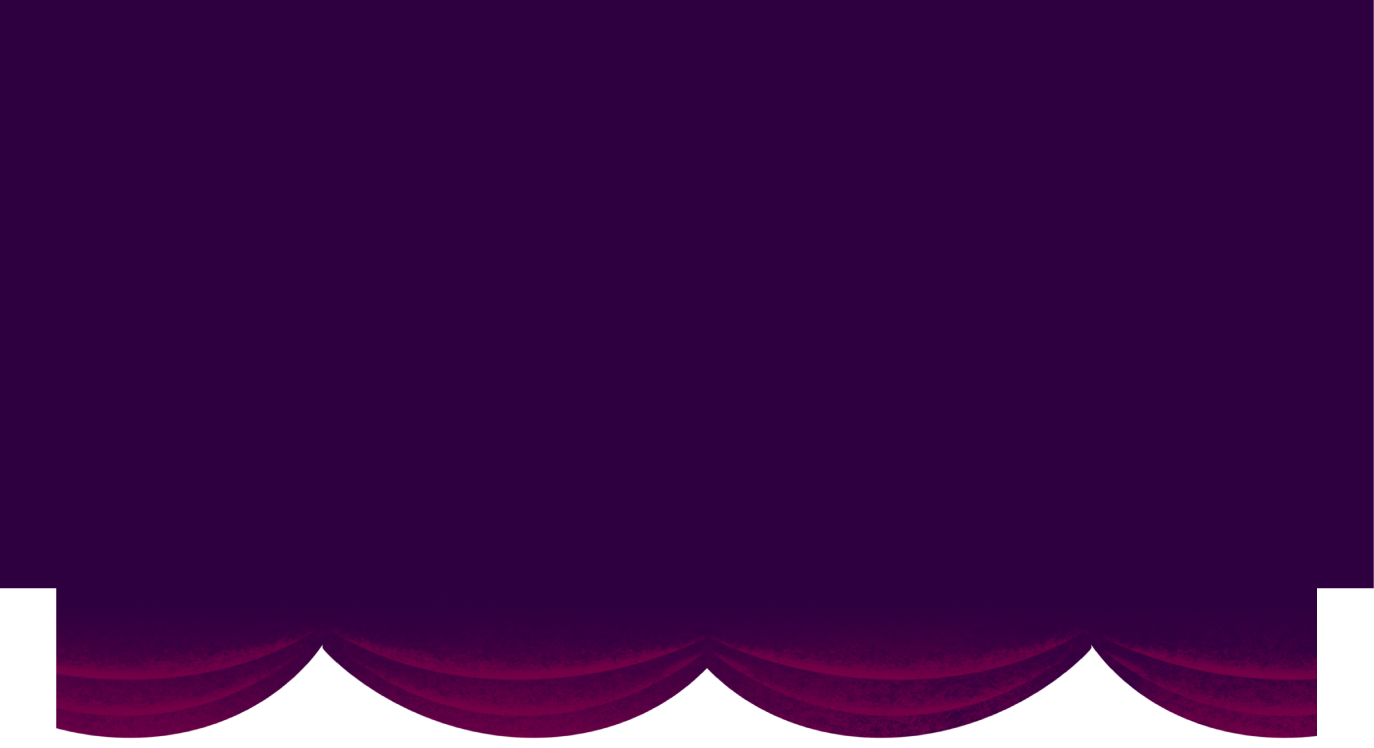
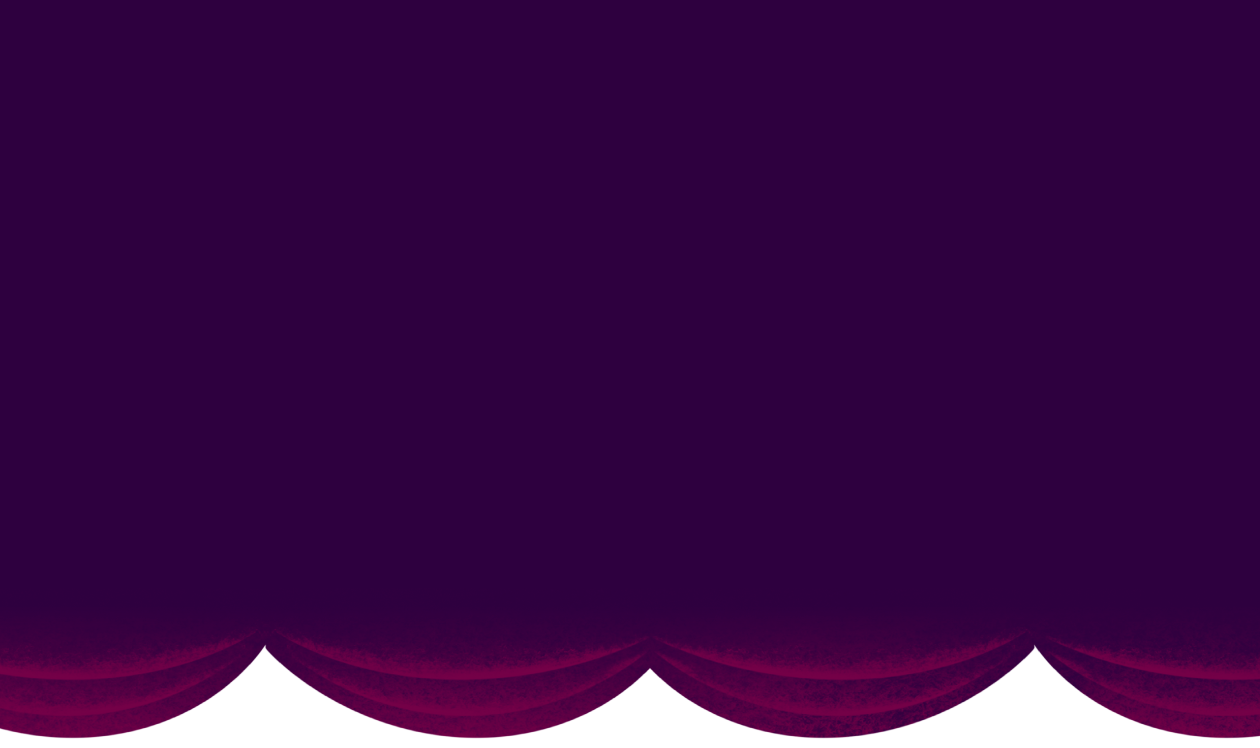
home ready

diff --git a/src/components/Home/styles.js b/src/components/Home/styles.js
@@ -1,12 +1,14 @@
 import pattern from '../../assets/pattern-somos.svg';
-import * as CS from '../colorSystem/colorSystem';
+import * as CS from '../../styles/colorSystem/colorSystem';
 
-
-export const homeStyles = {
+const homeStyles = {
     back:{
         backgroundColor:CS.darkBlue,
         width: '100%',
-        height:'100vh'
+        height:'100vh',
+        '@media (max-width: 700px)':{
+            height:'500px',
+        }
     },
     pattern:{
         backgroundSize:300,
@@ -16,6 +18,9 @@ export const homeStyles = {
         height:'100vh',
         position:'relative',
         overflow:'hidden',
+        '@media (max-width: 700px)':{
+            height:'500px',
+        }
 
     },
     '@keyframes showBegins': {
@@ -29,10 +34,17 @@ export const homeStyles = {
         position:'absolute',
         overflow:'hidden',
         top:-700,
-        animation:'$showBegins 2.5s' 
+        animation:'$showBegins 2.5s',
+        left: 0,
+        right: 0,
+        margin: 'auto',
     },
     floorImg:{
         width:'100%',
+        '@media (max-width: 700px)': {
+            height: '250px',
+            objectFit: 'cover',
+        }
     },
     floor:{
         position:'absolute',
@@ -45,14 +57,24 @@ export const homeStyles = {
         '100%': { transform: 'rotate(-10deg)' },
     },
     boyImg:{
-        height:'300px',
+        height:'350px',
+        '@media (max-width: 700px)':{
+            height:'220px',
+        }
     },
     boy:{
         position:'absolute',
         overflow:'hidden',
-        left: '20%',
         bottom:-10,
-        animation:'$spinsBoy 1.5s infinite'
+        animation:'$spinsBoy 1.5s infinite',
+        right: '51%',
+        '@media (max-width: 700px)': {
+            right: '45%'
+        },
+        '@media (max-width: 400px)':{
+            bottom: 20,
+            right: '42%'
+        },
     },
     '@keyframes spinsGirl': {
         '0%': { transform: 'rotate(10deg)' },
@@ -60,14 +82,24 @@ export const homeStyles = {
         '100%': { transform: 'rotate(10deg)' },
     },
     girlImg:{
-        height:'300px',
+        height:'350px',
+        '@media (max-width: 700px)':{
+            height:'220px',
+        }
     },
     girl:{
         position:'absolute',
         overflow:'hidden',
-        left: '55%',
         bottom:-10,
-        animation:'$spinsGirl 1.5s infinite'
+        animation:'$spinsGirl 1.5s infinite',
+        left: '51%',
+        '@media (max-width: 700px)': {
+            left: '45%'
+        },
+        '@media (max-width: 400px)':{
+            bottom: 20,
+            left: '42%'
+        }
     },
     leftImg:{
         height: '100vh',
@@ -76,7 +108,8 @@ export const homeStyles = {
         position:'absolute',
         top:0,
         height: '100vh',
-        overflow:'hidden'
+        overflow:'hidden',
+        '@media (max-width:700px)': {display: 'none'}
     },
     '@keyframes logoIntro': {
         '0%': { 
@@ -92,13 +125,18 @@ export const homeStyles = {
         width:'20%'
     },
     logoImg:{
-        
         animation:'$logoIntro 1s ease 1.6s',
         position:'absolute',
         animationFillMode: 'both',
         top:70,
-        left:'35%',
+        left:'0',
+        right: '0',
         overflow:'hidden',
+        margin: 'auto',
+        maxWidth: '80%',
+        '@media (max-width:700px)': {
+            top: 35
+        }
     },
     rightImg:{
         height: '100vh',
@@ -108,6 +146,9 @@ export const homeStyles = {
         top:0,
         right:-1,
         height: '100vh',
-        overflow:'hidden'
+        overflow:'hidden',
+        '@media (max-width:700px)': {display: 'none'}
     }
 }
+
+export default homeStyles

diff --git a/src/components/Home/home.jsx b/src/components/Home/home.jsx
@@ -1,6 +1,6 @@
 import React from 'react';
 import { makeStyles } from '@material-ui/core';
-import { homeStyles } from '../../styles/home/homeStyles';
+import styles from './styles';
 import top from '../../assets/closed.png';
 import left from '../../assets/izquierda.png';
 import right from '../../assets/derecha.png';
@@ -9,39 +9,39 @@ import boy from '../../assets/boy.png';
 import girl from '../../assets/girl.png';
 import logo from '../../assets/whiteLogo.png';
 
-const useStyles = makeStyles(homeStyles);
+const useStyles = makeStyles(styles);
 
 export const Home = () => {
 
-    const classes = useStyles();
+  const classes = useStyles();
 
-    return (
-        <React.Fragment>
-            <div className={classes.back} id='home'>
-                <div className={classes.pattern}>
-                    <div className={classes.floor}>
-                        <img className={classes.floorImg} src={`${floor}`} alt="telon izquiedo" />
-                    </div>
-                    <div className={classes.boy}>
-                        <img className={classes.boyImg} src={`${boy}`} alt="telon izquiedo" />
-                    </div>
-                    <div className={classes.girl}>
-                        <img className={classes.girlImg} src={`${girl}`} alt="telon izquiedo" />
-                    </div>
-                    <div className={classes.logo}>
-                        <img className={classes.logoImg} src={`${logo}`} alt="telon izquiedo" />
-                    </div>
-                    <div className={classes.top}>
-                        <img className={classes.topImg} src={`${top}`} alt="telon izquiedo" />
-                    </div>
-                    <div className={classes.left}>
-                        <img className={classes.leftImg} src={`${left}`} alt="telon izquiedo" />
-                    </div>
-                    <div className={classes.right}>
-                        <img className={classes.rightImg} src={`${right}`} alt="telon izquiedo" />
-                    </div>
-                </div>
-            </div>
-        </React.Fragment>
-    )
+  return (
+    <React.Fragment>
+      <div className={classes.back} id='home'>
+        <div className={classes.pattern}>
+          <div className={classes.floor}>
+            <img className={classes.floorImg} src={`${floor}`} alt="telon izquiedo" />
+          </div>
+          <div className={classes.boy}>
+            <img className={classes.boyImg} src={`${boy}`} alt="telon izquiedo" />
+          </div>
+          <div className={classes.girl}>
+            <img className={classes.girlImg} src={`${girl}`} alt="telon izquiedo" />
+          </div>
+          <div className={classes.logo}>
+            <img className={classes.logoImg} src={`${logo}`} alt="telon izquiedo" />
+          </div>
+          <div className={classes.top}>
+            <img className={classes.topImg} src={`${top}`} alt="telon izquiedo" />
+          </div>
+          <div className={classes.left}>
+            <img className={classes.leftImg} src={`${left}`} alt="telon izquiedo" />
+          </div>
+          <div className={classes.right}>
+            <img className={classes.rightImg} src={`${right}`} alt="telon izquiedo" />
+          </div>
+        </div>
+      </div>
+    </React.Fragment>
+  )
 }
